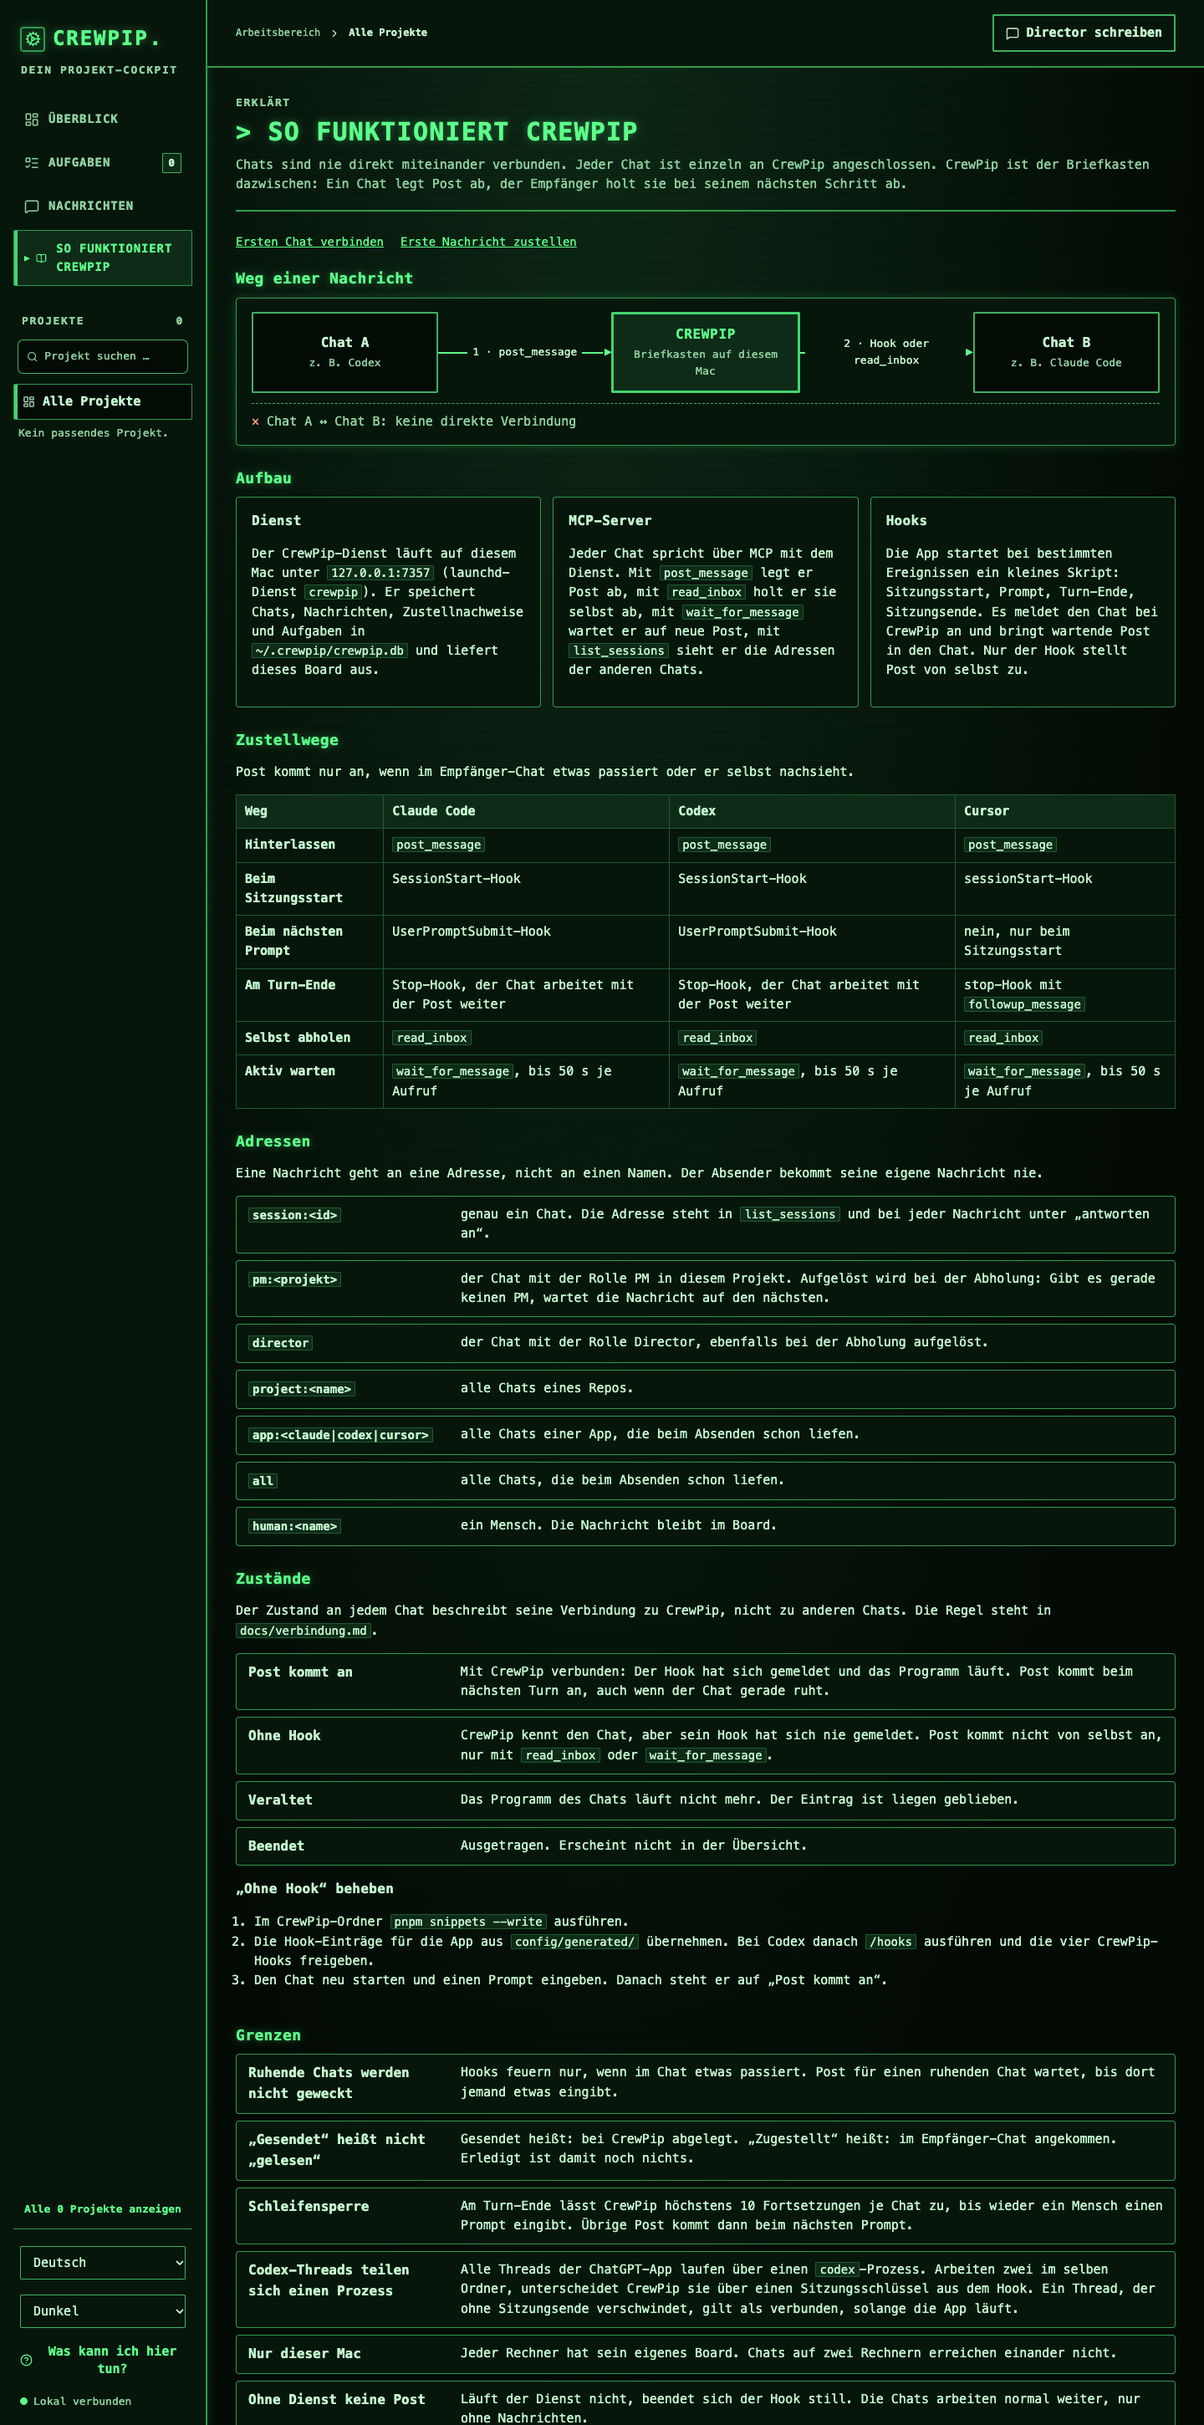
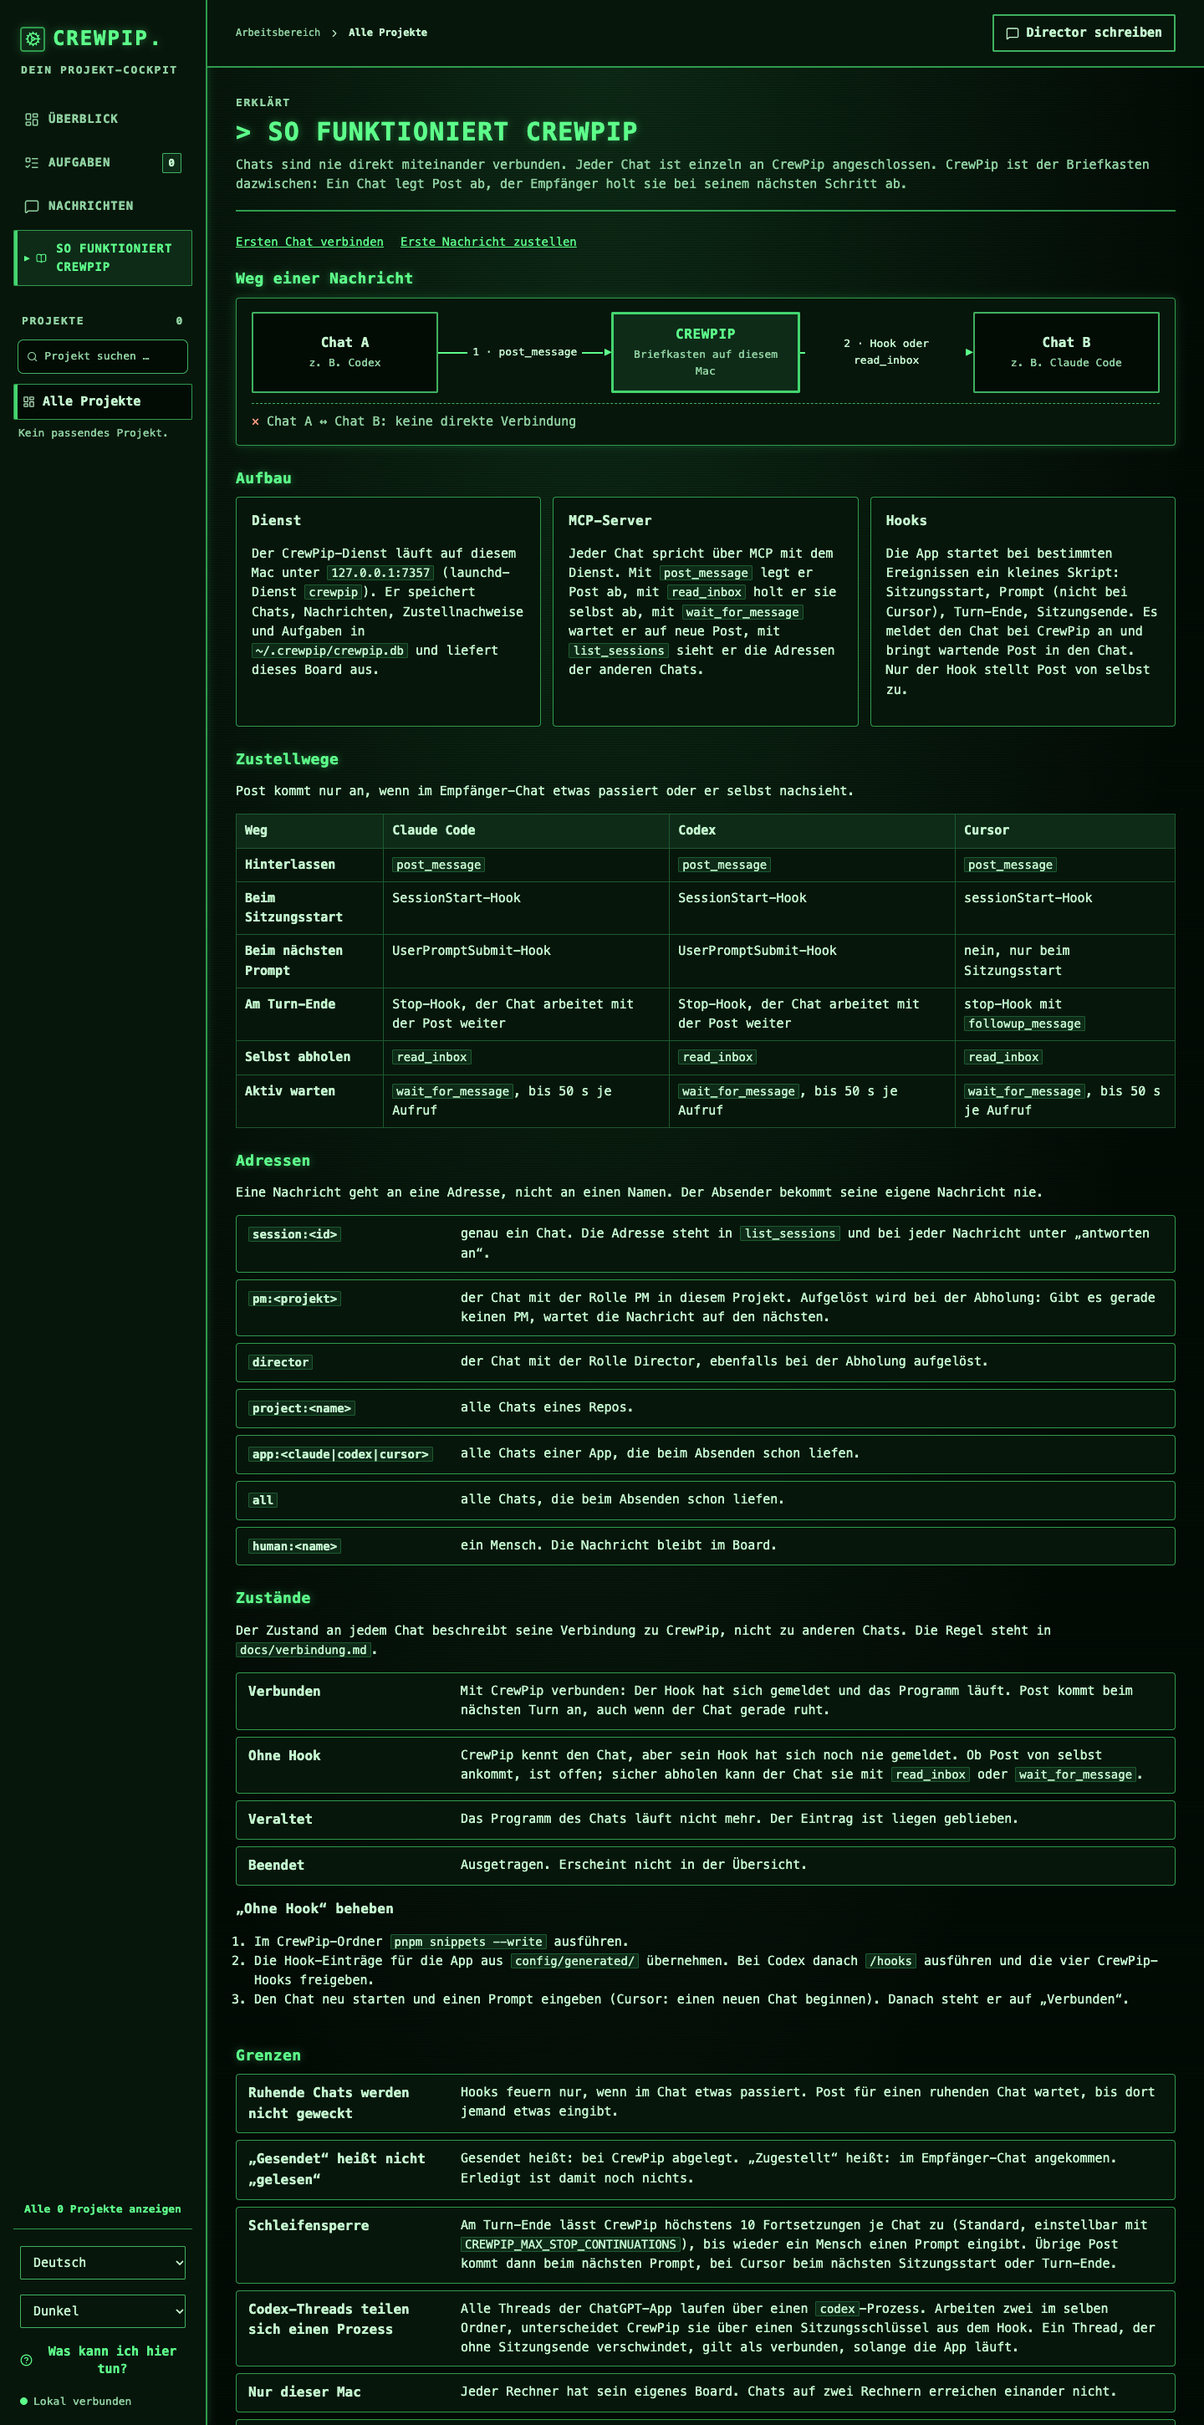
Erklärseite: Zustandsnamen aus dem Board, Cursor-Sonderfälle (#15)
Review-Befunde: Die Zustände heißen auf der Seite jetzt wie in der Übersicht
(connectionState), „Ohne Hook“ sagt „offen“ statt „kommt nicht an“, Cursor ohne
Prompt-Hook ist bei Behebung und Schleifensperre berücksichtigt. Der Test gleicht
Zustandsnamen in Seite und Doku mit den Sprachdateien ab.

Changed region(s): [[0.1875, 0.2793, 0.9688, 1.0], [0.7188, 0.2483, 0.9688, 0.2793]]

diff --git a/apps/web/src/locales/de.ts b/apps/web/src/locales/de.ts
@@ -182,7 +182,7 @@ export const de = {
     parts: [
       ["Dienst", "Der CrewPip-Dienst läuft auf diesem Mac unter `127.0.0.1:7357` (launchd-Dienst `crewpip`). Er speichert Chats, Nachrichten, Zustellnachweise und Aufgaben in `~/.crewpip/crewpip.db` und liefert dieses Board aus."],
       ["MCP-Server", "Jeder Chat spricht über MCP mit dem Dienst. Mit `post_message` legt er Post ab, mit `read_inbox` holt er sie selbst ab, mit `wait_for_message` wartet er auf neue Post, mit `list_sessions` sieht er die Adressen der anderen Chats."],
-      ["Hooks", "Die App startet bei bestimmten Ereignissen ein kleines Skript: Sitzungsstart, Prompt, Turn-Ende, Sitzungsende. Es meldet den Chat bei CrewPip an und bringt wartende Post in den Chat. Nur der Hook stellt Post von selbst zu."],
+      ["Hooks", "Die App startet bei bestimmten Ereignissen ein kleines Skript: Sitzungsstart, Prompt (nicht bei Cursor), Turn-Ende, Sitzungsende. Es meldet den Chat bei CrewPip an und bringt wartende Post in den Chat. Nur der Hook stellt Post von selbst zu."],
     ],
     pathsTitle: "Zustellwege",
     pathsIntro: "Post kommt nur an, wenn im Empfänger-Chat etwas passiert oder er selbst nachsieht.",
@@ -208,23 +208,24 @@ export const de = {
     ],
     statesTitle: "Zustände",
     statesIntro: "Der Zustand an jedem Chat beschreibt seine Verbindung zu CrewPip, nicht zu anderen Chats. Die Regel steht in `docs/verbindung.md`.",
-    states: [
-      ["Post kommt an", "Mit CrewPip verbunden: Der Hook hat sich gemeldet und das Programm läuft. Post kommt beim nächsten Turn an, auch wenn der Chat gerade ruht."],
-      ["Ohne Hook", "CrewPip kennt den Chat, aber sein Hook hat sich nie gemeldet. Post kommt nicht von selbst an, nur mit `read_inbox` oder `wait_for_message`."],
-      ["Veraltet", "Das Programm des Chats läuft nicht mehr. Der Eintrag ist liegen geblieben."],
-      ["Beendet", "Ausgetragen. Erscheint nicht in der Übersicht."],
-    ],
-    fixTitle: "„Ohne Hook“ beheben",
-    fix: [
+    /** Die Namen der Zustände kommen aus connectionState, damit Seite und Übersicht gleich heißen. */
+    states: {
+      connected: "Mit CrewPip verbunden: Der Hook hat sich gemeldet und das Programm läuft. Post kommt beim nächsten Turn an, auch wenn der Chat gerade ruht.",
+      "no-hook": "CrewPip kennt den Chat, aber sein Hook hat sich noch nie gemeldet. Ob Post von selbst ankommt, ist offen; sicher abholen kann der Chat sie mit `read_inbox` oder `wait_for_message`.",
+      stale: "Das Programm des Chats läuft nicht mehr. Der Eintrag ist liegen geblieben.",
+      ended: "Ausgetragen. Erscheint nicht in der Übersicht.",
+    },
+    fixTitle: (noHook: string) => `„${noHook}“ beheben`,
+    fix: (connected: string) => [
       "Im CrewPip-Ordner `pnpm snippets --write` ausführen.",
       "Die Hook-Einträge für die App aus `config/generated/` übernehmen. Bei Codex danach `/hooks` ausführen und die vier CrewPip-Hooks freigeben.",
-      "Den Chat neu starten und einen Prompt eingeben. Danach steht er auf „Post kommt an“.",
+      `Den Chat neu starten und einen Prompt eingeben (Cursor: einen neuen Chat beginnen). Danach steht er auf „${connected}“.`,
     ],
     limitsTitle: "Grenzen",
     limits: [
       ["Ruhende Chats werden nicht geweckt", "Hooks feuern nur, wenn im Chat etwas passiert. Post für einen ruhenden Chat wartet, bis dort jemand etwas eingibt."],
       ["„Gesendet“ heißt nicht „gelesen“", "Gesendet heißt: bei CrewPip abgelegt. „Zugestellt“ heißt: im Empfänger-Chat angekommen. Erledigt ist damit noch nichts."],
-      ["Schleifensperre", "Am Turn-Ende lässt CrewPip höchstens 10 Fortsetzungen je Chat zu, bis wieder ein Mensch einen Prompt eingibt. Übrige Post kommt dann beim nächsten Prompt."],
+      ["Schleifensperre", "Am Turn-Ende lässt CrewPip höchstens 10 Fortsetzungen je Chat zu (Standard, einstellbar mit `CREWPIP_MAX_STOP_CONTINUATIONS`), bis wieder ein Mensch einen Prompt eingibt. Übrige Post kommt dann beim nächsten Prompt, bei Cursor beim nächsten Sitzungsstart oder Turn-Ende."],
       ["Codex-Threads teilen sich einen Prozess", "Alle Threads der ChatGPT-App laufen über einen `codex`-Prozess. Arbeiten zwei im selben Ordner, unterscheidet CrewPip sie über einen Sitzungsschlüssel aus dem Hook. Ein Thread, der ohne Sitzungsende verschwindet, gilt als verbunden, solange die App läuft."],
       ["Nur dieser Mac", "Jeder Rechner hat sein eigenes Board. Chats auf zwei Rechnern erreichen einander nicht."],
       ["Ohne Dienst keine Post", "Läuft der Dienst nicht, beendet sich der Hook still. Die Chats arbeiten normal weiter, nur ohne Nachrichten."],

diff --git a/apps/web/src/locales/en.ts b/apps/web/src/locales/en.ts
@@ -215,7 +215,7 @@ export const en = {
     parts: [
       ["Service", "The CrewPip service runs on this Mac at `127.0.0.1:7357` (launchd service `crewpip`). It stores chats, messages, delivery receipts and tasks in `~/.crewpip/crewpip.db` and serves this board."],
       ["MCP server", "Every chat talks to the service over MCP. `post_message` leaves a message, `read_inbox` fetches messages, `wait_for_message` waits for new ones and `list_sessions` shows the addresses of the other chats."],
-      ["Hooks", "The app runs a small script on certain events: session start, prompt, end of turn, session end. It registers the chat with CrewPip and brings waiting messages into the chat. Only the hook delivers messages on its own."],
+      ["Hooks", "The app runs a small script on certain events: session start, prompt (not in Cursor), end of turn, session end. It registers the chat with CrewPip and brings waiting messages into the chat. Only the hook delivers messages on its own."],
     ],
     pathsTitle: "Delivery paths",
     pathsIntro: "A message only arrives when something happens in the recipient chat or the chat checks its inbox.",
@@ -241,23 +241,23 @@ export const en = {
     ],
     statesTitle: "States",
     statesIntro: "The state on each chat describes its connection to CrewPip, not to other chats. The rule is documented in `docs/verbindung.md`.",
-    states: [
-      ["Messages arrive", "Connected to CrewPip: the hook has reported and the app is running. Messages arrive at the next turn, even while the chat is idle."],
-      ["Without hook", "CrewPip knows the chat, but its hook has never reported. Messages do not arrive on their own, only via `read_inbox` or `wait_for_message`."],
-      ["Stale", "The chat's app is no longer running. The entry was left behind."],
-      ["Ended", "Unregistered. Not shown in the overview."],
-    ],
-    fixTitle: "Fixing “Without hook”",
-    fix: [
+    states: {
+      connected: "Connected to CrewPip: the hook has reported and the app is running. Messages arrive at the next turn, even while the chat is idle.",
+      "no-hook": "CrewPip knows the chat, but its hook has never reported. Whether messages arrive on their own is uncertain; the chat can always fetch them with `read_inbox` or `wait_for_message`.",
+      stale: "The chat's app is no longer running. The entry was left behind.",
+      ended: "Unregistered. Not shown in the overview.",
+    },
+    fixTitle: (noHook: string) => `Fixing “${noHook}”`,
+    fix: (connected: string) => [
       "Run `pnpm snippets --write` in the CrewPip folder.",
       "Copy the hook entries for the app from `config/generated/`. For Codex, run `/hooks` afterwards and approve the four CrewPip hooks.",
-      "Restart the chat and enter a prompt. It then shows “Messages arrive”.",
+      `Restart the chat and enter a prompt (Cursor: start a new chat). It then shows “${connected}”.`,
     ],
     limitsTitle: "Limits",
     limits: [
       ["Idle chats are not woken up", "Hooks only fire when something happens in the chat. A message for an idle chat waits until someone types there."],
       ["“Sent” does not mean “read”", "Sent means: stored at CrewPip. “Delivered” means: it arrived in the recipient chat. That does not mean it is done."],
-      ["Loop guard", "At the end of a turn CrewPip allows at most 10 continuations per chat until a person enters a prompt again. Remaining messages arrive at the next prompt."],
+      ["Loop guard", "At the end of a turn CrewPip allows at most 10 continuations per chat (default, set with `CREWPIP_MAX_STOP_CONTINUATIONS`) until a person enters a prompt again. Remaining messages arrive at the next prompt, in Cursor at the next session start or end of turn."],
       ["Codex threads share one process", "All threads of the ChatGPT app run through one `codex` process. If two work in the same folder, CrewPip tells them apart with a session key from the hook. A thread that disappears without a session end counts as connected while the app is running."],
       ["This Mac only", "Every computer has its own board. Chats on two computers cannot reach each other."],
       ["No service, no messages", "If the service is not running, the hook exits silently. Chats keep working, just without messages."],

diff --git a/apps/web/src/Guide.tsx b/apps/web/src/Guide.tsx
@@ -1,6 +1,9 @@
 import { Fragment } from "react";
 import { ArrowRight } from "lucide-react";
+import type { ConnectionState } from "@crewpip/shared";
 import { useBoardLanguage } from "./language.tsx";
+
+const STATES: ConnectionState[] = ["connected", "no-hook", "stale", "ended"];
 
 /** `code` in Erklärtexten als <code> ausgeben, sonst reiner Text. */
 export function Rich({ text }: { text: string }) {
@@ -41,8 +44,8 @@ export function Guide({ onWrite, onTasks }: { onWrite: (target: string) => void;
       <dl className="guide-list">{g.addresses.map(([address, text]) => <div key={address}><dt><code>{address}</code></dt><dd><Rich text={text} /></dd></div>)}</dl>
     </section>
     <section className="guide-section"><h2>{g.statesTitle}</h2><p><Rich text={g.statesIntro} /></p>
-      <dl className="guide-list">{g.states.map(([state, text]) => <div key={state}><dt>{state}</dt><dd><Rich text={text} /></dd></div>)}</dl>
-      <h3>{g.fixTitle}</h3><ol>{g.fix.map(step => <li key={step}><Rich text={step} /></li>)}</ol>
+      <dl className="guide-list">{STATES.map(state => <div key={state}><dt>{ui.connectionState[state]}</dt><dd><Rich text={g.states[state]} /></dd></div>)}</dl>
+      <h3>{g.fixTitle(ui.connectionState["no-hook"])}</h3><ol>{g.fix(ui.connectionState.connected).map(step => <li key={step}><Rich text={step} /></li>)}</ol>
     </section>
     <section className="guide-section"><h2>{g.limitsTitle}</h2>
       <dl className="guide-list">{g.limits.map(([title, text]) => <div key={title}><dt>{title}</dt><dd><Rich text={text} /></dd></div>)}</dl>

diff --git a/docs/kommunikation.md b/docs/kommunikation.md
@@ -27,7 +27,7 @@ Nachrichten austauschen, zeigen die Zustellnachweise unter jeder Nachricht.
   legt er Post ab, mit `read_inbox` holt er sie selbst ab, mit `wait_for_message` wartet er auf
   neue Post, mit `list_sessions` sieht er die Adressen der anderen Chats
   (`apps/daemon/src/mcp.ts`).
-- **Hooks.** Die App startet bei Sitzungsstart, Prompt, Turn-Ende und Sitzungsende das Skript
+- **Hooks.** Die App startet bei Sitzungsstart, Prompt (nicht bei Cursor), Turn-Ende und Sitzungsende das Skript
   `apps/hook/crewpip-hook.mjs`. Es meldet den Chat an (`/hooks/<app>/<ereignis>` in
   `apps/daemon/src/http.ts`) und bringt wartende Post in den Chat. Nur der Hook stellt Post von
   selbst zu.
@@ -74,8 +74,8 @@ genaue Regel steht in [verbindung.md](verbindung.md).
 
 | Anzeige | Bedeutung |
 |---|---|
-| Post kommt an | Mit CrewPip verbunden: Der Hook hat sich gemeldet und das Programm läuft. Post kommt beim nächsten Turn an, auch wenn der Chat gerade ruht. |
-| Ohne Hook | CrewPip kennt den Chat, aber sein Hook hat sich nie gemeldet. Post kommt nicht von selbst an, nur mit `read_inbox` oder `wait_for_message`. |
+| Verbunden | Mit CrewPip verbunden: Der Hook hat sich gemeldet und das Programm läuft. Post kommt beim nächsten Turn an, auch wenn der Chat gerade ruht. |
+| Ohne Hook | CrewPip kennt den Chat, aber sein Hook hat sich noch nie gemeldet. Ob Post von selbst ankommt, ist offen; sicher abholen kann der Chat sie mit `read_inbox` oder `wait_for_message`. |
 | Veraltet | Das Programm des Chats läuft nicht mehr. Der Eintrag ist liegen geblieben. |
 | Beendet | Ausgetragen. Erscheint nicht in der Übersicht. |
 
@@ -84,7 +84,8 @@ genaue Regel steht in [verbindung.md](verbindung.md).
 1. Im CrewPip-Ordner `pnpm snippets --write` ausführen.
 2. Die Hook-Einträge für die App aus `config/generated/` übernehmen. Bei Codex danach `/hooks`
    ausführen und die vier CrewPip-Hooks freigeben.
-3. Den Chat neu starten und einen Prompt eingeben. Danach steht er auf „Post kommt an“.
+3. Den Chat neu starten und einen Prompt eingeben (Cursor: einen neuen Chat beginnen). Danach
+   steht er auf „Verbunden“.
 
 ## Grenzen
 
@@ -94,7 +95,7 @@ genaue Regel steht in [verbindung.md](verbindung.md).
   heißt: im Empfänger-Chat angekommen. Erledigt ist damit noch nichts.
 - **Schleifensperre.** Am Turn-Ende lässt CrewPip höchstens `CREWPIP_MAX_STOP_CONTINUATIONS` (Standard 10)
   Fortsetzungen je Chat zu, bis wieder ein Mensch einen Prompt eingibt. Übrige Post kommt dann
-  beim nächsten Prompt. Cursor begrenzt den stop-Hook zusätzlich mit `loop_limit`.
+  beim nächsten Prompt, bei Cursor beim nächsten Sitzungsstart oder Turn-Ende. Cursor begrenzt den stop-Hook zusätzlich mit `loop_limit`.
 - **Codex-Threads teilen sich einen Prozess.** Alle Threads der ChatGPT-App laufen über einen
   `codex`-Prozess. Arbeiten zwei im selben Ordner, unterscheidet CrewPip sie über einen
   Sitzungsschlüssel, den nur der Hook des jeweiligen Threads erfährt. Ein Thread, der ohne

diff --git a/docs/communication.md b/docs/communication.md
@@ -26,7 +26,7 @@ message show which chats actually exchange messages.
 - **MCP server.** Every chat talks to the service over MCP (`/mcp/<app>`). `post_message` leaves
   a message, `read_inbox` fetches messages, `wait_for_message` waits for new ones and
   `list_sessions` shows the addresses of the other chats (`apps/daemon/src/mcp.ts`).
-- **Hooks.** On session start, prompt, end of turn and session end the app runs
+- **Hooks.** On session start, prompt (not in Cursor), end of turn and session end the app runs
   `apps/hook/crewpip-hook.mjs`. It registers the chat (`/hooks/<app>/<event>` in
   `apps/daemon/src/http.ts`) and brings waiting messages into the chat. Only the hook delivers
   messages on its own.
@@ -73,8 +73,8 @@ is documented in [verbindung.md](verbindung.md) (German).
 
 | Label | Meaning |
 |---|---|
-| Messages arrive | Connected to CrewPip: the hook has reported and the app is running. Messages arrive at the next turn, even while the chat is idle. |
-| Without hook | CrewPip knows the chat, but its hook has never reported. Messages do not arrive on their own, only via `read_inbox` or `wait_for_message`. |
+| Connected | Connected to CrewPip: the hook has reported and the app is running. Messages arrive at the next turn, even while the chat is idle. |
+| Without hook | CrewPip knows the chat, but its hook has never reported. Whether messages arrive on their own is uncertain; the chat can always fetch them with `read_inbox` or `wait_for_message`. |
 | Stale | The chat's app is no longer running. The entry was left behind. |
 | Ended | Unregistered. Not shown in the overview. |
 
@@ -83,7 +83,7 @@ Fixing “Without hook”:
 1. Run `pnpm snippets --write` in the CrewPip folder.
 2. Copy the hook entries for the app from `config/generated/`. For Codex, run `/hooks`
    afterwards and approve the four CrewPip hooks.
-3. Restart the chat and enter a prompt. It then shows “Messages arrive”.
+3. Restart the chat and enter a prompt (Cursor: start a new chat). It then shows “Connected”.
 
 ## Limits
 
@@ -93,7 +93,7 @@ Fixing “Without hook”:
   in the recipient chat. That does not mean it is done.
 - **Loop guard.** At the end of a turn CrewPip allows at most `CREWPIP_MAX_STOP_CONTINUATIONS` (default 10)
   continuations per chat until a person enters a prompt again. Remaining messages arrive at
-  the next prompt. Cursor also limits its stop hook with `loop_limit`.
+  the next prompt, in Cursor at the next session start or end of turn. Cursor also limits its stop hook with `loop_limit`.
 - **Codex threads share one process.** All threads of the ChatGPT app run through one `codex`
   process. If two work in the same folder, CrewPip tells them apart with a session key that only
   the hook of that thread receives. A thread that disappears without a session end counts as
